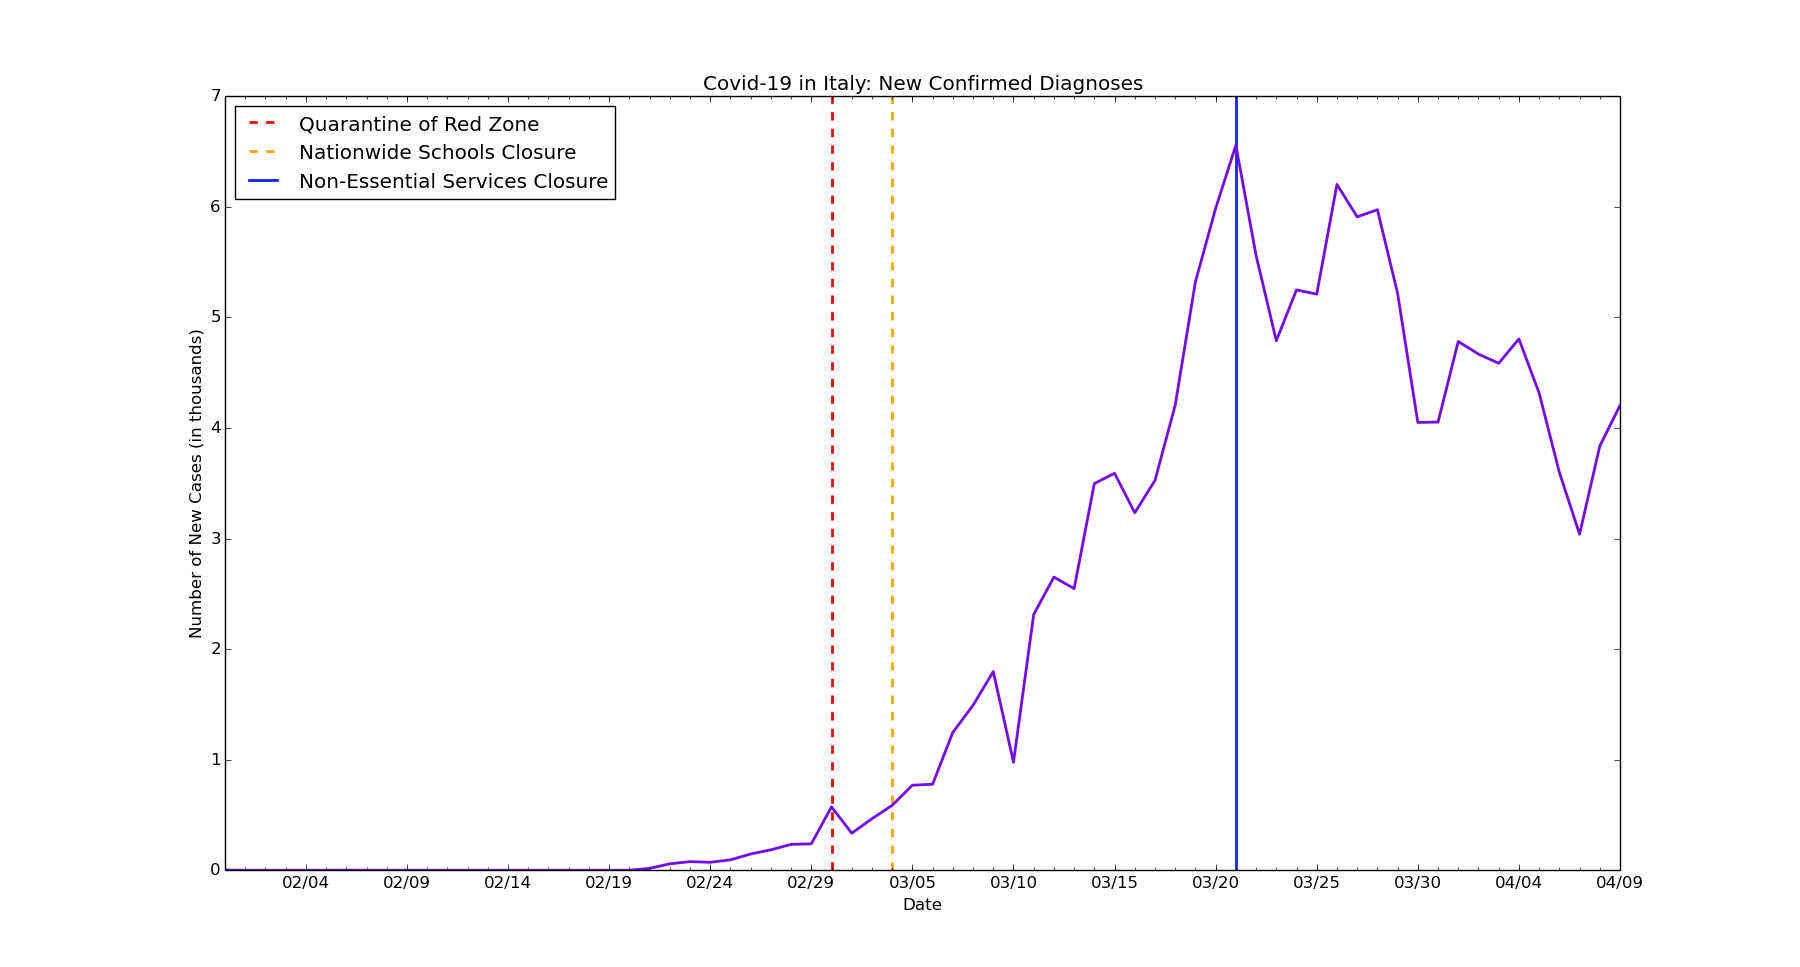
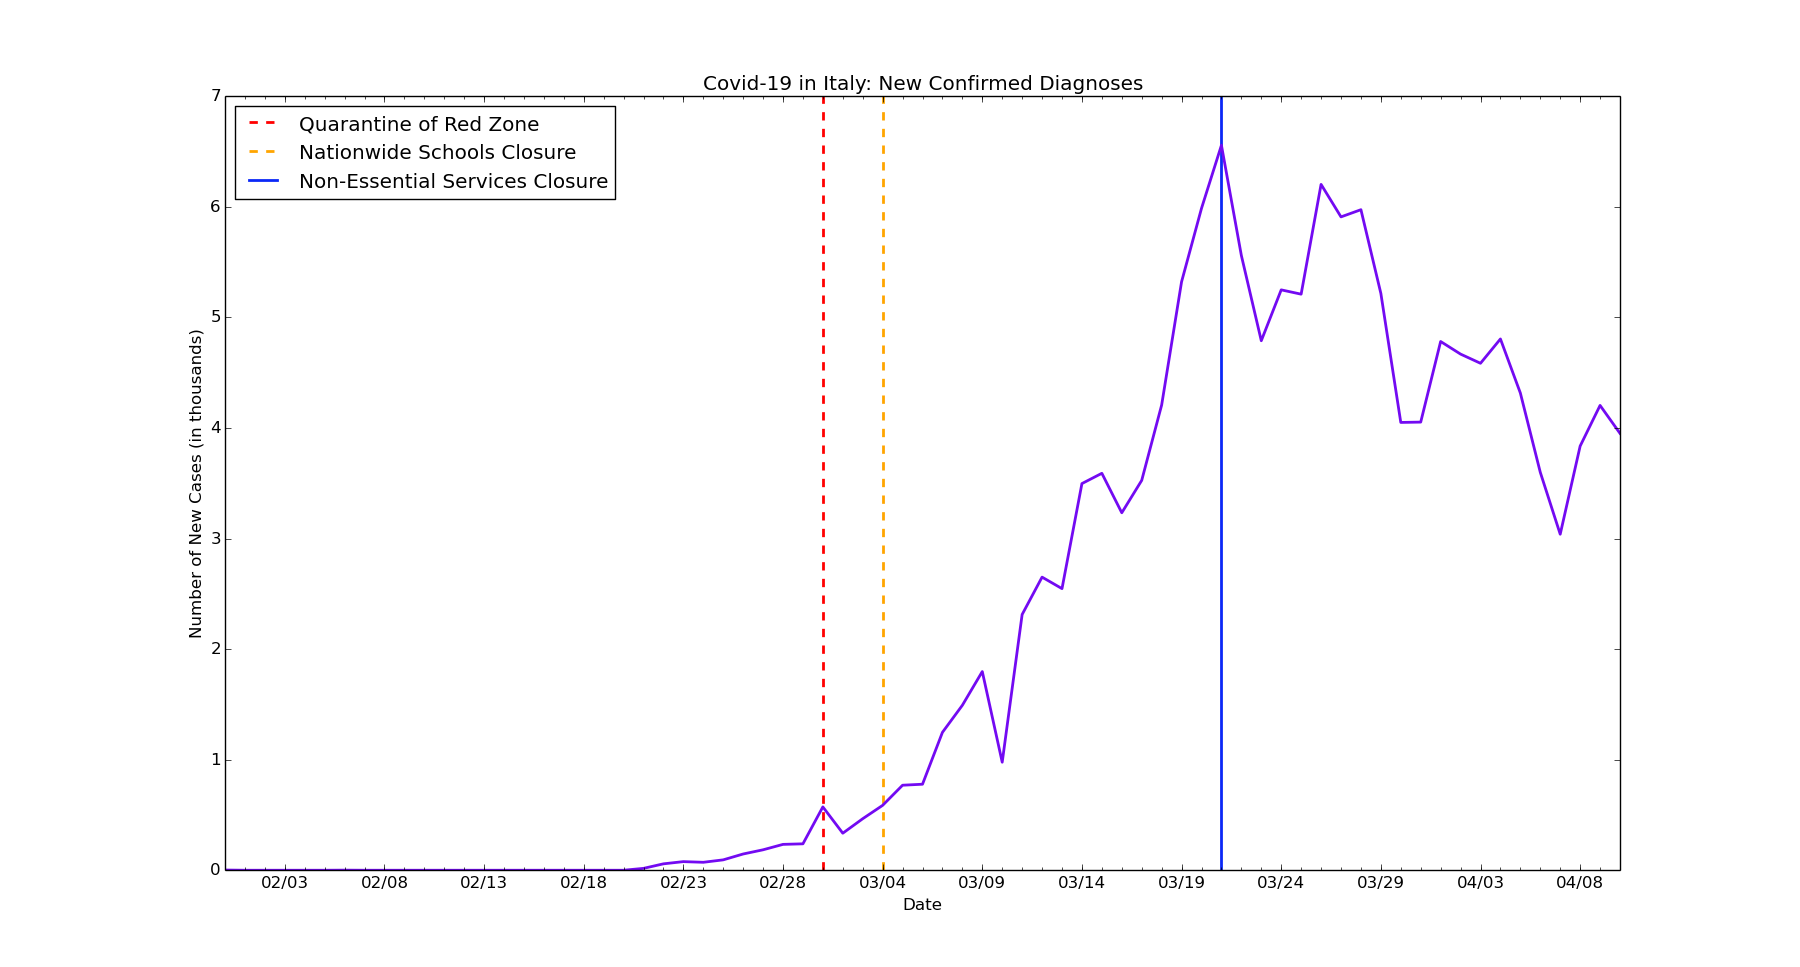
chore: Update data for Italy for 4/10

diff --git a/italy/it-nc.py b/italy/it-nc.py
@@ -1,12 +1,10 @@
-# line graph of daily new cases in Italy
-
 import datetime as dt
 import matplotlib.pyplot as plt
 import matplotlib.dates as mdates
 import matplotlib.ticker as ticker
 from matplotlib.dates import MO, TU, WE, TH, FR, SA, SU
 
-dates = ['1/31/2020', '2/1/2020', '2/2/2020', '2/3/2020', '2/4/2020', '2/5/2020', '2/6/2020', '2/7/2020', '2/8/2020', '2/9/2020', '2/10/2020', '2/11/2020', '2/12/2020', '2/13/2020', '2/14/2020', '2/15/2020', '2/16/2020', '2/17/2020', '2/18/2020', '2/19/2020', '2/20/2020', '2/21/2020', '2/22/2020', '2/23/2020', '2/24/2020', '2/25/2020', '2/26/2020', '2/27/2020', '2/28/2020', '2/29/2020', '3/1/2020', '3/2/2020', '3/3/2020', '3/4/2020', '3/5/2020', '3/6/2020', '3/7/2020', '3/8/2020', '3/9/2020', '3/10/2020', '3/11/2020', '3/12/2020', '3/13/2020', '3/14/2020', '3/15/2020', '3/16/2020', '3/17/2020', '3/18/2020', '3/19/2020', '3/20/2020', '3/21/2020', '3/22/2020', '3/23/2020', '3/24/2020', '3/25/2020', '3/26/2020', '3/27/2020', '3/28/2020', '3/29/2020', '3/30/2020', '3/31/2020', '4/1/2020', '4/2/2020', '4/3/2020', '4/4/2020', '4/5/2020', '4/6/2020', '4/7/2020', '4/8/2020', '4/9/2020']
+dates = ['1/31/2020', '2/1/2020', '2/2/2020', '2/3/2020', '2/4/2020', '2/5/2020', '2/6/2020', '2/7/2020', '2/8/2020', '2/9/2020', '2/10/2020', '2/11/2020', '2/12/2020', '2/13/2020', '2/14/2020', '2/15/2020', '2/16/2020', '2/17/2020', '2/18/2020', '2/19/2020', '2/20/2020', '2/21/2020', '2/22/2020', '2/23/2020', '2/24/2020', '2/25/2020', '2/26/2020', '2/27/2020', '2/28/2020', '2/29/2020', '3/1/2020', '3/2/2020', '3/3/2020', '3/4/2020', '3/5/2020', '3/6/2020', '3/7/2020', '3/8/2020', '3/9/2020', '3/10/2020', '3/11/2020', '3/12/2020', '3/13/2020', '3/14/2020', '3/15/2020', '3/16/2020', '3/17/2020', '3/18/2020', '3/19/2020', '3/20/2020', '3/21/2020', '3/22/2020', '3/23/2020', '3/24/2020', '3/25/2020', '3/26/2020', '3/27/2020', '3/28/2020', '3/29/2020', '3/30/2020', '3/31/2020', '4/1/2020', '4/2/2020', '4/3/2020', '4/4/2020', '4/5/2020', '4/6/2020', '4/7/2020', '4/8/2020', '4/9/2020', '4/10/2020']
 
 # format dates
 x_values = [dt.datetime.strptime(d, "%m/%d/%Y").date() for d in dates]
@@ -15,7 +13,6 @@ formatter = mdates.DateFormatter("%m/%d")
 ax.xaxis.set_major_formatter(formatter)
 
 # create x-axis
-# major tick = every 3 days
 ax.xaxis.set_major_locator(mdates.WeekdayLocator(byweekday=(MO, TU, WE, TH, FR, SA, SU), interval=5))
 # minor tick = daily
 ax.xaxis.set_minor_locator(mdates.WeekdayLocator(byweekday=(MO, TU, WE, TH, FR, SA, SU)))
@@ -31,7 +28,7 @@ plt.axvline(dt.datetime(2020, 3, 21), color='#0b28f7', linewidth=2, label='nones
 ax.get_yaxis().set_major_formatter(ticker.FuncFormatter(lambda x, pos: format(int(x/1000), ',')))
 
 # new cases by day
-new_cases = [2, 0, 0, 0, 0, 0, 1, 0, 0, 0, 0, 0, 0, 0, 0, 0, 0, 0, 0, 0, 0, 17, 58, 78, 72, 94, 147, 185, 234, 239, 573, 335, 466, 587, 769, 778, 1247, 1492, 1797, 977, 2313, 2651, 2547, 3497, 3590, 3233, 3526, 4207, 5322, 5986, 6557, 5560, 4789, 5249, 5210, 6203, 5909, 5974, 5217, 4050, 4053, 4782, 4668, 4585, 4805, 4316, 3599, 3039, 3836, 4204]
+new_cases = [2, 0, 0, 0, 0, 0, 1, 0, 0, 0, 0, 0, 0, 0, 0, 0, 0, 0, 0, 0, 0, 17, 58, 78, 72, 94, 147, 185, 234, 239, 573, 335, 466, 587, 769, 778, 1247, 1492, 1797, 977, 2313, 2651, 2547, 3497, 3590, 3233, 3526, 4207, 5322, 5986, 6557, 5560, 4789, 5249, 5210, 6203, 5909, 5974, 5217, 4050, 4053, 4782, 4668, 4585, 4805, 4316, 3599, 3039, 3836, 4204, 3951]
 
 # text labels
 plt.title('Covid-19 in Italy: New Confirmed Diagnoses')

diff --git a/italy/it-rates.py b/italy/it-rates.py
@@ -4,7 +4,7 @@ import matplotlib.dates as mdates
 import matplotlib.ticker as ticker
 from matplotlib.dates import MO, TU, WE, TH, FR, SA, SU
 
-dates = ['2/20/2020', '2/21/2020', '2/22/2020', '2/23/2020', '2/24/2020', '2/25/2020', '2/26/2020', '2/27/2020', '2/28/2020', '2/29/2020', '3/1/2020', '3/2/2020', '3/3/2020', '3/4/2020', '3/5/2020', '3/6/2020', '3/7/2020', '3/8/2020', '3/9/2020', '3/10/2020', '3/11/2020', '3/12/2020', '3/13/2020', '3/14/2020', '3/15/2020', '3/16/2020', '3/17/2020', '3/18/2020', '3/19/2020', '3/20/2020', '3/21/2020', '3/22/2020', '3/23/2020', '3/24/2020', '3/25/2020', '3/26/2020', '3/27/2020', '3/28/2020', '3/29/2020', '3/30/2020', '3/31/2020', '4/1/2020', '4/2/2020', '4/3/2020', '4/4/2020', '4/5/2020', '4/6/2020', '4/7/2020', '4/8/2020', '4/9/2020']
+dates = ['2/20/2020', '2/21/2020', '2/22/2020', '2/23/2020', '2/24/2020', '2/25/2020', '2/26/2020', '2/27/2020', '2/28/2020', '2/29/2020', '3/1/2020', '3/2/2020', '3/3/2020', '3/4/2020', '3/5/2020', '3/6/2020', '3/7/2020', '3/8/2020', '3/9/2020', '3/10/2020', '3/11/2020', '3/12/2020', '3/13/2020', '3/14/2020', '3/15/2020', '3/16/2020', '3/17/2020', '3/18/2020', '3/19/2020', '3/20/2020', '3/21/2020', '3/22/2020', '3/23/2020', '3/24/2020', '3/25/2020', '3/26/2020', '3/27/2020', '3/28/2020', '3/29/2020', '3/30/2020', '3/31/2020', '4/1/2020', '4/2/2020', '4/3/2020', '4/4/2020', '4/5/2020', '4/6/2020', '4/7/2020', '4/8/2020', '4/9/2020', '4/10/2020']
 
 # format dates
 x_values = [datetime.datetime.strptime(d, "%m/%d/%Y").date() for d in dates]
@@ -21,10 +21,10 @@ ax.xaxis.set_minor_locator(mdates.WeekdayLocator(byweekday=(MO, TU, WE, TH, FR, 
 ax.get_yaxis().set_major_formatter(ticker.FuncFormatter(lambda x, pos: format(int(x), ',')))
 
 # recovery rate
-recoveries = [0, 0, 0, 0, .44, 0, .45, 6.46, .11, .35, 1.95, 3.24, .44, 3.76, 3.58, 2.35, 1.12, .45, 1.11, 2.76, .33, 1.41, 1.02, 2.49, 1.49, 1.48, .61, 3.04, 1.01, 1.47, 1.76, 1.61, .64, 1.29, 1.39, 1.24, .68, 1.55, .66, 1.56, 1.05, 1.01, 1.24, 1.24, .99, .64, .77, 1.15, 1.51, 1.38]
+recoveries = [0, 0, 0, 0, .44, 0, .45, 6.46, .11, .35, 1.95, 3.24, .44, 3.76, 3.58, 2.35, 1.12, .45, 1.11, 2.76, .33, 1.41, 1.02, 2.49, 1.49, 1.48, .61, 3.04, 1.01, 1.47, 1.76, 1.61, .64, 1.29, 1.39, 1.24, .68, 1.55, .66, 1.56, 1.05, 1.01, 1.24, 1.24, .99, .64, .77, 1.15, 1.51, 1.38, 1.35]
 
 # mortality rate
-deaths = [0, 5, 2.53, 2, 2.62, 3.11, 2.7, 2.62, 2.36, 2.57, 2.01, 2.55, 3.16, 3.46, 3.84, 4.25, 3.96, 4.96, 5.05, 6.22, 6.64, 6.72, 7.17, 6.81, 7.31, 7.71, 7.94, 8.34, 8.3, 8.57, 9.01, 9.26, 9.51, 9.86, 10.09, 10.19, 10.56, 10.84, 11.03, 11.39, 11.75, 11.9, 12.07, 12.25, 12.33, 12.32, 12.47, 12.63, 12.67, 12.73]
+deaths = [0, 5, 2.53, 2, 2.62, 3.11, 2.7, 2.62, 2.36, 2.57, 2.01, 2.55, 3.16, 3.46, 3.84, 4.25, 3.96, 4.96, 5.05, 6.22, 6.64, 6.72, 7.17, 6.81, 7.31, 7.71, 7.94, 8.34, 8.3, 8.57, 9.01, 9.26, 9.51, 9.86, 10.09, 10.19, 10.56, 10.84, 11.03, 11.39, 11.75, 11.9, 12.07, 12.25, 12.33, 12.32, 12.47, 12.63, 12.67, 12.73, 12.77]
 
 # create the graph
 plt.plot(x_values, recoveries, color='#12cfdf', linewidth=2)
